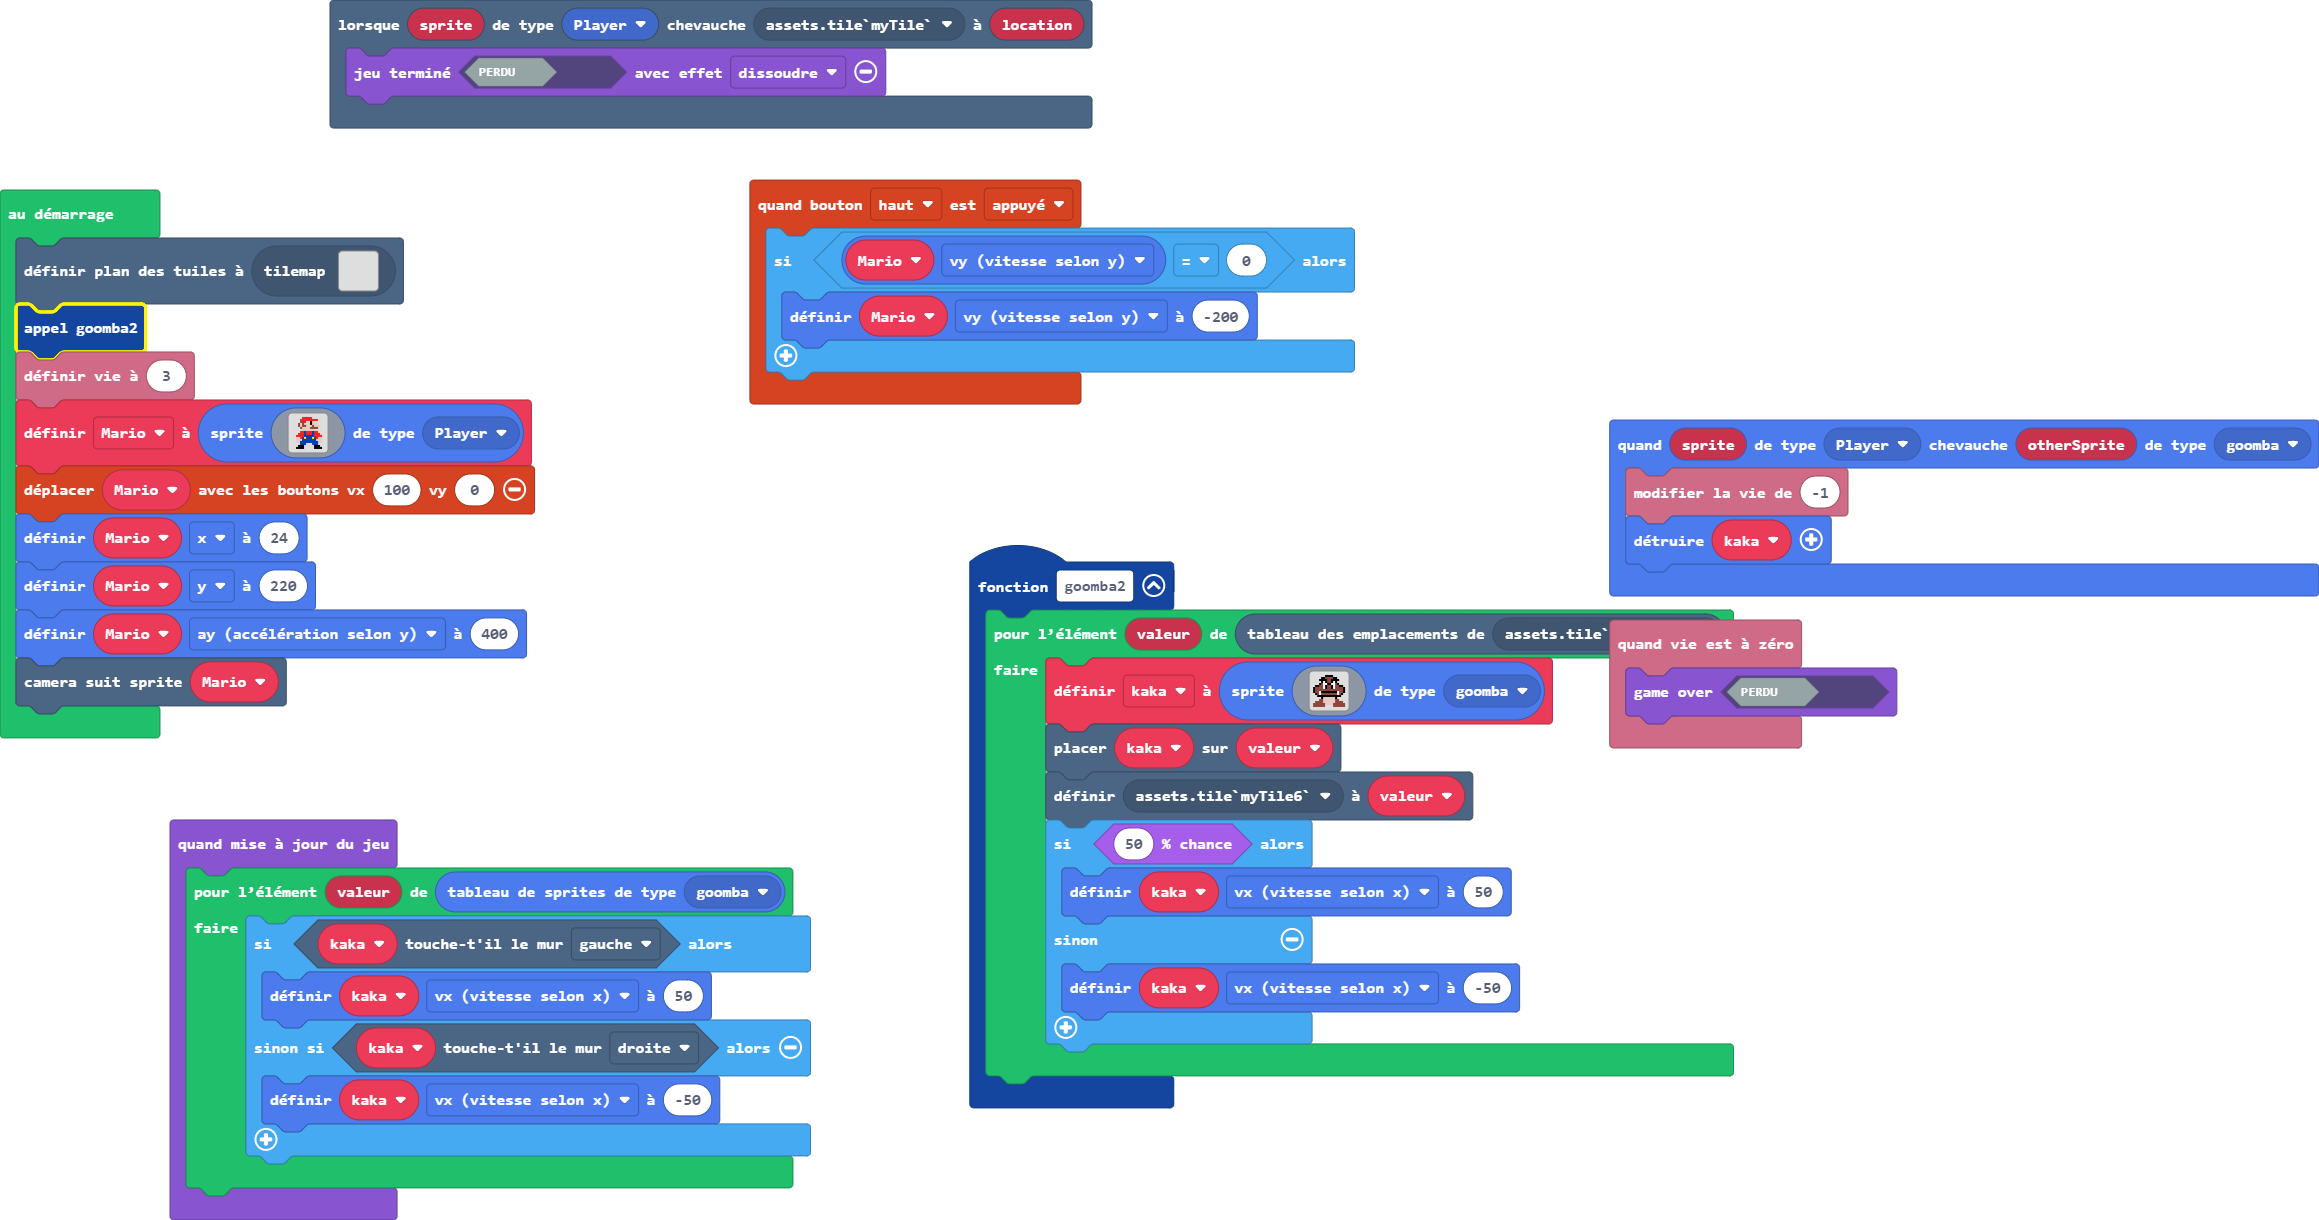
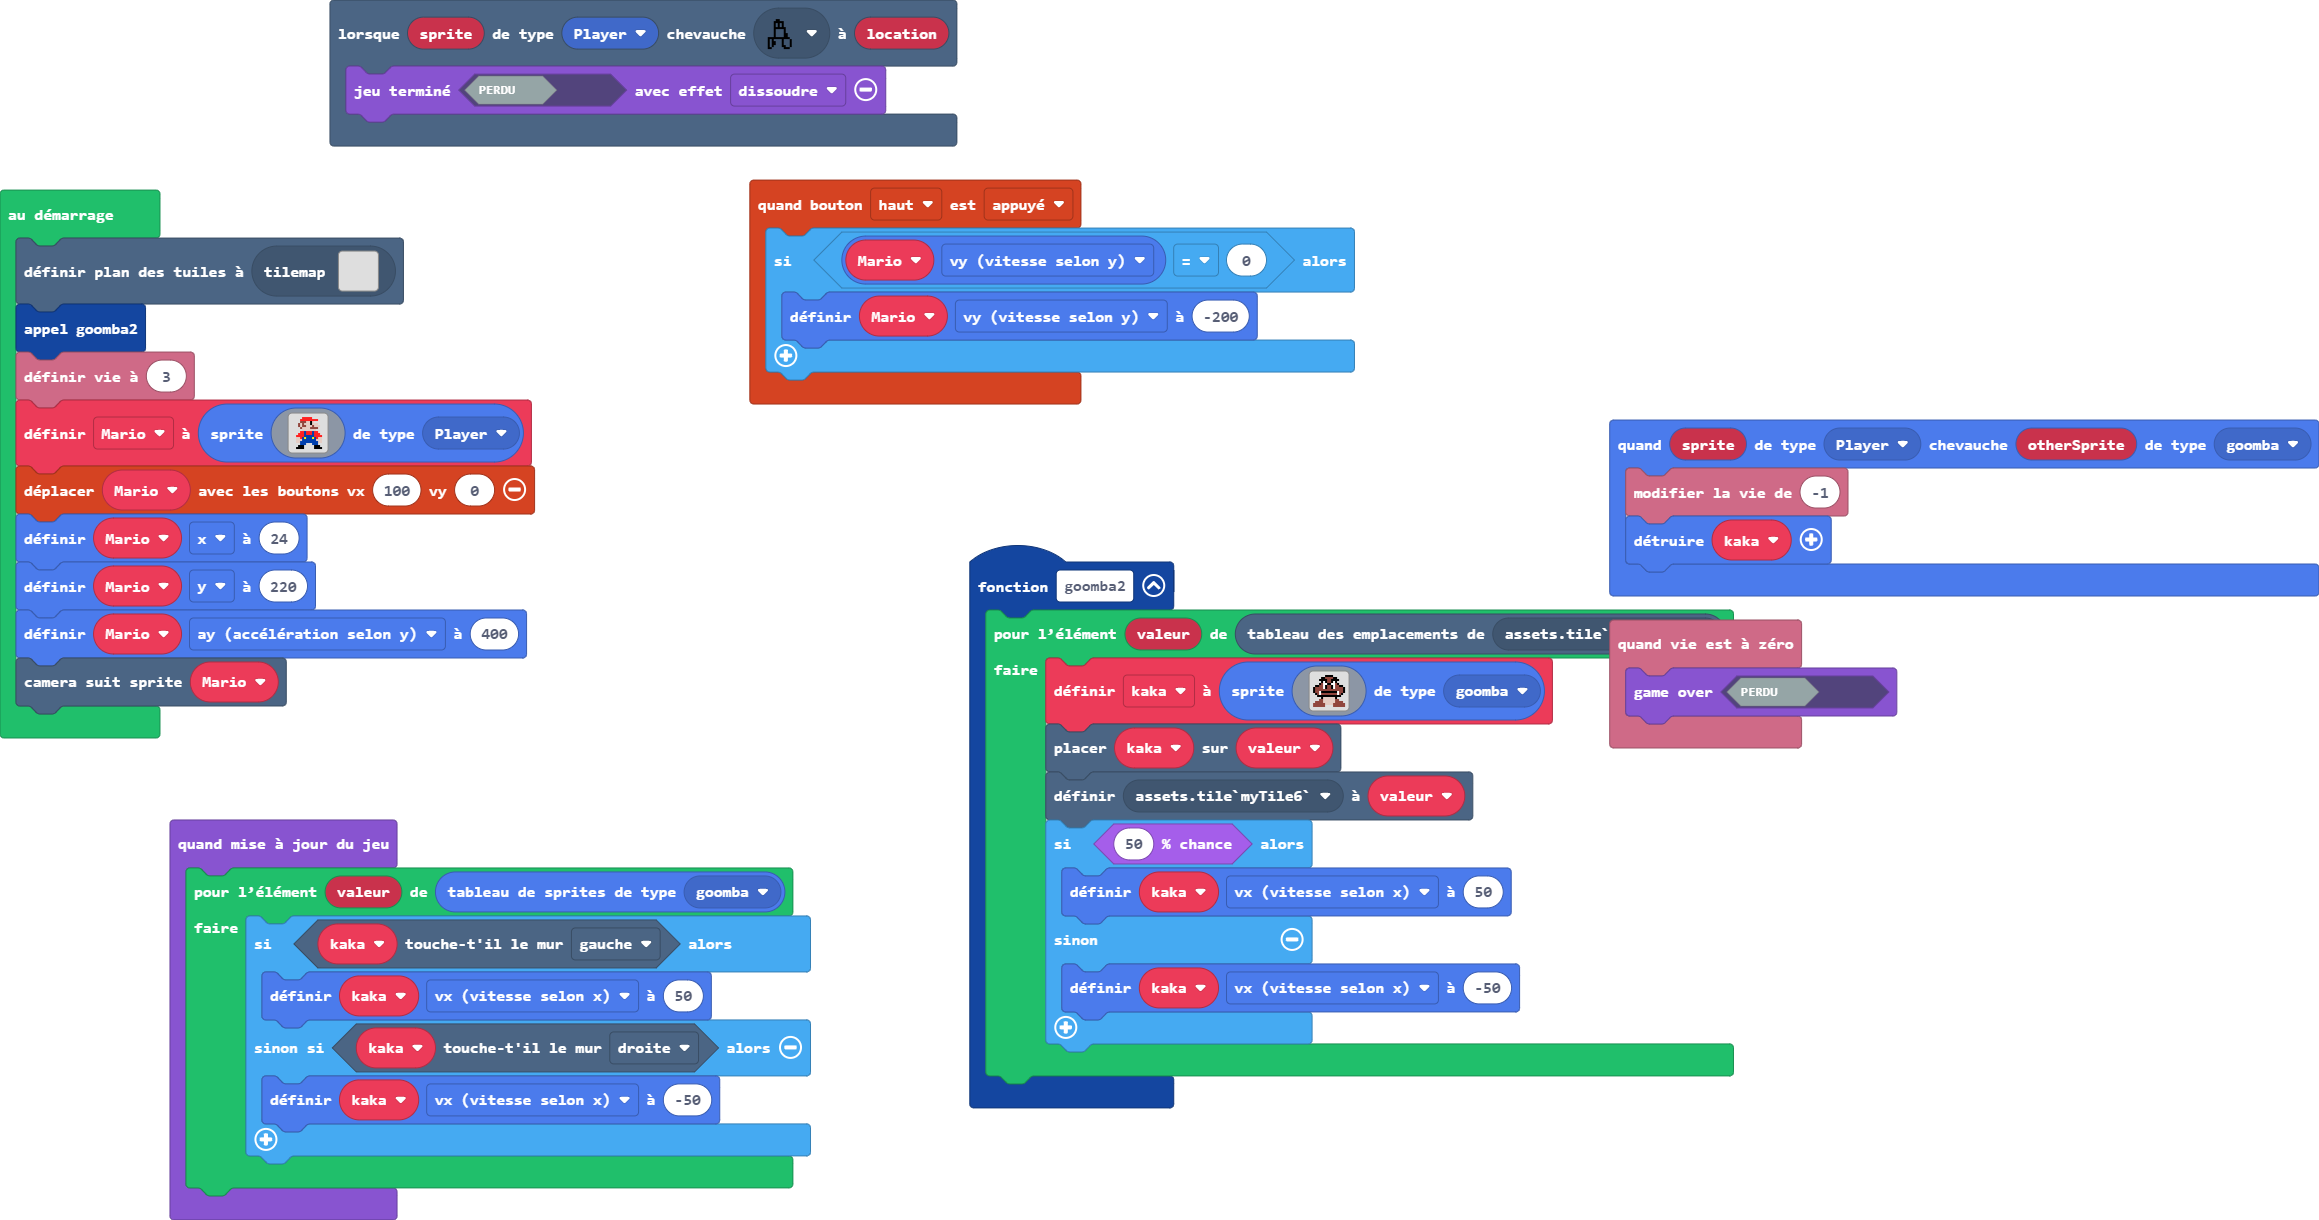
Mise à jour main.blocks, tilemap.g.jres, tilemap.g.ts

Changed region(s): [[0.1242, 0.0, 0.4968, 0.1246], [0.0, 0.218, 0.0621, 0.3115]]

diff --git a/tilemap.g.ts b/tilemap.g.ts
@@ -2,28 +2,30 @@
 namespace myTiles {
     //% fixedInstance jres blockIdentity=images._tile
     export const transparency16 = image.ofBuffer(hex``);
+    //% fixedInstance jres blockIdentity=images._tile
+    export const tile1 = image.ofBuffer(hex``);
 
     helpers._registerFactory("tilemap", function(name: string) {
         switch(helpers.stringTrim(name)) {
             case "niveau1":
-            case "niveau1":return tiles.createTilemap(hex`1000100000000000000000000000000000000000000000000000000000000000000000000000000000000000000000000000000000000000000000000000000000000000000000000000000000000000000000000000000000000000000000000000000000000000000000000000000000000000000000000000000000000000000000000000000000000000000000000000000000000000000000000000000000000000000000000000000000000000000000000000000000000000000000000000000000000000000000000000000000000000000000000000000000000000000000000000000000000000000000000000000000000000000000000000000000000000`, img`
-. . . . . . . . . . . . . . . . 
-. . . . . . . . . . . . . . . . 
-. . . . . . . . . . . . . . . . 
-. . . . . . . . . . . . . . . . 
-. . . . . . . . . . . . . . . . 
-. . . . . . . . . . . . . . . . 
-. . . . . . . . . . . . . . . . 
-. . . . . . . . . . . . . . . . 
-. . . . . . . . . . . . . . . . 
-. . . . . . . . . . . . . . . . 
-. . . . . . . . . . . . . . . . 
-. . . . . . . . . . . . . . . . 
-. . . . . . . . . . . . . . . . 
-. . . . . . . . . . . . . . . . 
-. . . . . . . . . . . . . . . . 
-. . . . . . . . . . . . . . . . 
-`, [], -Infinity);
+            case "niveau1":return tiles.createTilemap(hex`500010000000000000000000000000000000000000000000000000000000000000000000000000000000000000000000000000000000000000000000000000000000000000000000000000000000000000000000000000000000000000000000000000000000000000000000000000000000000000000000000000000000000000000000000000000000000000000000000000000000000000000000000000000000000000000000000000000000000000000000000000000000000000000000000000000000000000000000000000000000000000000000000000000000000000000000000000000000000000000000000000000000000000000000000200000200000000000000000000000000000000000000000000000000000000000000000000000000000000000000000000000000000000000000000000000000000000000000000000000000000002020000010200000000000000000000000000000000000000000000000000000000000000000000000000000000000000000000000000000000000000000000000000000000000000000000000000020201000001010200000000000000000000000000000000000000000000000000000000000000000000000000010101010000000000000000000000000000000000000000000000000000000000000202010103030101010200000000000000000000000000000000000000000000000000000000000000010101010100000000000000000000000000000000000000000000000000000000010101010101010101010101010101010101000000000000000202020202000000000000000000000000000001010101000000000000000000000000000000000000000000000000000000000000000000000000000000000000000000000000000101000000000000000000000000000000000000000000010101010000000000000000000000000000000000000000000000000000000000000000000000000000000000000000000000000000000000000101000000000000000000000000000000000001010101000000000000000000000000000000000000000000000000000000000000000000000000000000000000000000000000000000000000000000000101000000000000000000000000000101010100000000000000000000000000000000000000000000000000000000000000000000000000000000000000000000000000000000000000000000000000000101010000010101010101010001000000000000000000000000000000000000000000000000000000000000000000000000000000000000000000000000000000000000000000000000000000000000000001010101000000000000000000000000000000000000000000000000000000000000000000000000000000000000000000000000000000000000000000000000000000000000000000000000000000000000000000000000000000000000000000000000000000000000000000000000000000000000000000000000000000000000000000000000000000000000000000000000000000000000000000000000000000000000000000000000000000000000000000000000000000000000000000000000000000000000000000000000000000000000000000000000000000000000000000000000000000000000000000000000000000000000000000000000000000000000000000000000000000000000000000000000000000000000000000000000000000000000`, img`
+................................................................................
+................................................................................
+................................................................................
+.........2..2...................................................................
+........22..22..................................................................
+.......222..222.....................................2222........................
+......2222..2222...............................22222............................
+222222222222222222.......22222..............2222................................
+.................22.....................2222....................................
+..................22.................2222.......................................
+...................22.............2222..........................................
+....................222..2222222.2..............................................
+......................2222......................................................
+................................................................................
+................................................................................
+................................................................................
+`, [myTiles.transparency16,sprites.builtin.forestTiles21,sprites.castle.tileGrass2,myTiles.tile1], TileScale.Sixteen);
             case "niveau2":
             case "niveau2":return tiles.createTilemap(hex`1000100000000000000000000000000000000000000000000000000000000000000000000000000000000000000000000000000000000000000000000000000000000000000000000000000000000000000000000000000000000000000000000000000000000000000000000000000000000000000000000000000000000000000000000000000000000000000000000000000000000000000000000000000000000000000000000000000000000000000000000000000000000000000000000000000000000000000000000000000000000000000000000000000000000000000000000000000000000000000000000000000000000000000000000000000000000000`, img`
 . . . . . . . . . . . . . . . . 
@@ -42,26 +44,7 @@ namespace myTiles {
 . . . . . . . . . . . . . . . . 
 . . . . . . . . . . . . . . . . 
 . . . . . . . . . . . . . . . . 
-`, [myTiles.transparency16], TileScale.Sixteen);
-            case "niveau3":
-            case "niveau3":return tiles.createTilemap(hex`1000100000000000000000000000000000000000000000000000000000000000000000000000000000000000000000000000000000000000000000000000000000000000000000000000000000000000000000000000000000000000000000000000000000000000000000000000000000000000000000000000000000000000000000000000000000000000000000000000000000000000000000000000000000000000000000000000000000000000000000000000000000000000000000000000000000000000000000000000000000000000000000000000000000000000000000000000000000000000000000000000000000000000000000000000000000000000`, img`
-. . . . . . . . . . . . . . . . 
-. . . . . . . . . . . . . . . . 
-. . . . . . . . . . . . . . . . 
-. . . . . . . . . . . . . . . . 
-. . . . . . . . . . . . . . . . 
-. . . . . . . . . . . . . . . . 
-. . . . . . . . . . . . . . . . 
-. . . . . . . . . . . . . . . . 
-. . . . . . . . . . . . . . . . 
-. . . . . . . . . . . . . . . . 
-. . . . . . . . . . . . . . . . 
-. . . . . . . . . . . . . . . . 
-. . . . . . . . . . . . . . . . 
-. . . . . . . . . . . . . . . . 
-. . . . . . . . . . . . . . . . 
-. . . . . . . . . . . . . . . . 
-`, [myTiles.transparency16], TileScale.Sixteen);
+`, [], -Infinity);
         }
         return null;
     })
@@ -69,6 +52,8 @@ namespace myTiles {
     helpers._registerFactory("tile", function(name: string) {
         switch(helpers.stringTrim(name)) {
             case "transparency16":return transparency16;
+            case "myTile":
+            case "tile1":return tile1;
         }
         return null;
     })
